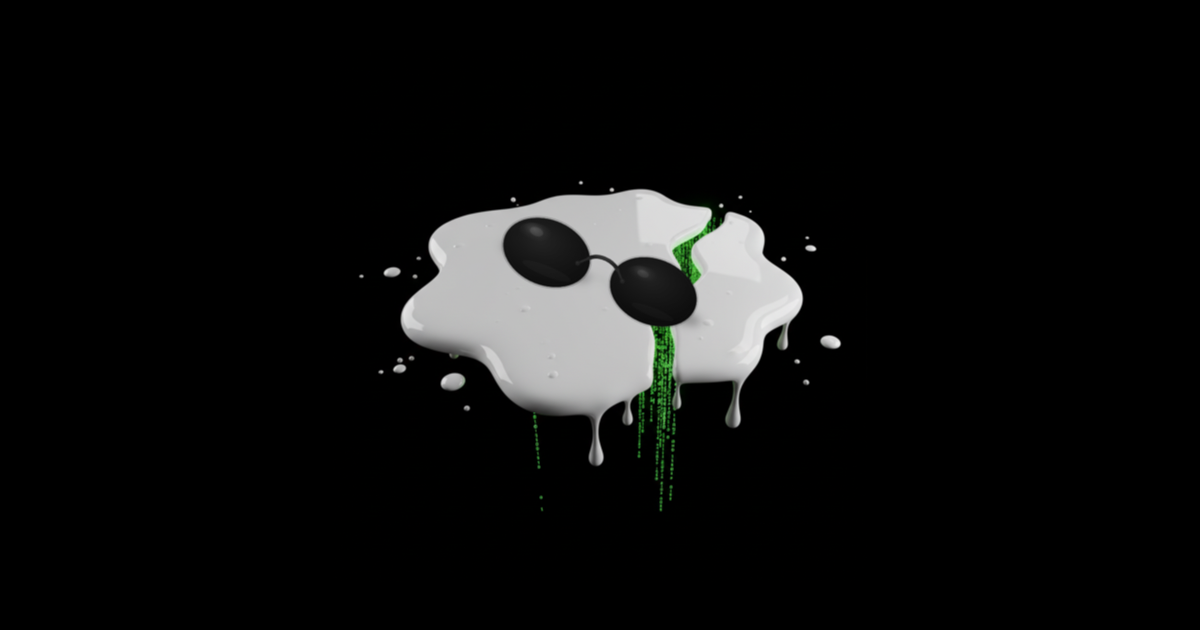
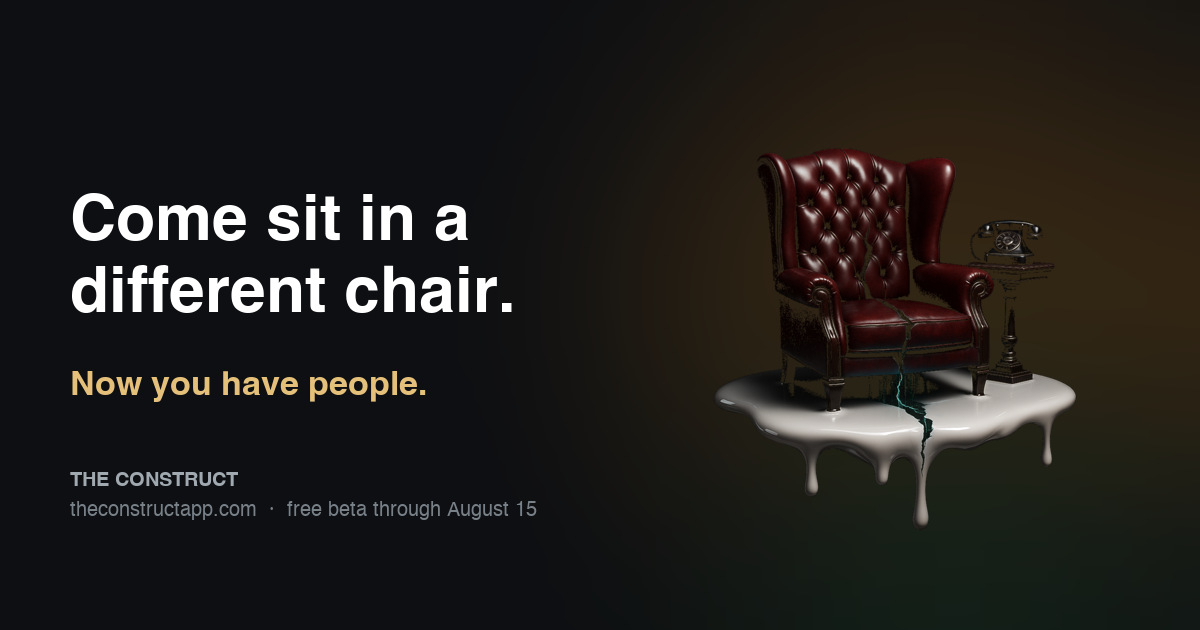
assets: the cast, "Well, meet your people.", new share card
- Six original character portraits (Morpheus, The Architect, Tank, Trinity,
  The Concierge, The Producer) in one painterly series matching the hero's
  world: dark room, amber pool, green seam accents, burgundy wardrobe.
  ORIGINAL designs, deliberately zero Matrix trade dress (no sunglasses, no
  trench coats, no actor likeness); the names are the only inheritance.
  Sources at the-construct-ops/brand/cast/ (1254px masters).
- New section "Well, meet your people." directly answers the hero's promise;
  role lines reuse the app's own agent descriptions verbatim where they
  exist (tank/concierge/producer are straight from the agents table).
- og-image rebuilt around the logomark + "Come sit in a different chair." /
  "Now you have people." so shares finally match the site.
- WebP + JPEG per portrait, ~46 KB avg.

diff --git a/index.html b/index.html
@@ -229,6 +229,99 @@
     </section>
 
     <!-- ============================================================ -->
+    <!-- 2a. MEET YOUR PEOPLE                                          -->
+    <!-- ============================================================ -->
+    <section class="hero-dark py-20 md:py-24 border-t border-white/5">
+      <div class="max-w-6xl mx-auto px-4 sm:px-6">
+        <div class="fade-in text-center mb-12">
+          <h2 class="text-3xl md:text-4xl font-bold text-white tracking-tight mb-4">Well, meet your people.</h2>
+          <p class="text-[#a8b0b9] text-lg max-w-2xl mx-auto">Named, not numbered. Each one has a job, a voice, and a lane, and they work at the same time.</p>
+        </div>
+        <div class="grid sm:grid-cols-2 lg:grid-cols-3 gap-6">
+          <div class="fade-in bg-[#14161a] border border-white/10 rounded-xl overflow-hidden">
+            <picture>
+              <source srcset="./cast/morpheus-640.webp" type="image/webp">
+              <img src="./cast/morpheus-640.jpg" alt="Illustrated portrait of Morpheus, your thought partner in The Construct" width="640" height="640" decoding="async" class="w-full h-auto">
+            </picture>
+            <div class="p-4">
+              <div class="flex items-baseline justify-between mb-1">
+                <h3 class="text-white text-base font-bold">Morpheus</h3>
+                <span class="text-[#e5c07a] text-[11px] font-semibold uppercase tracking-wider">Your thought partner</span>
+              </div>
+              <p class="text-[#a8b0b9] text-sm leading-relaxed">The one you talk to first. He thinks with you, then hands the work to the right people.</p>
+            </div>
+          </div>
+          <div class="fade-in bg-[#14161a] border border-white/10 rounded-xl overflow-hidden">
+            <picture>
+              <source srcset="./cast/architect-640.webp" type="image/webp">
+              <img src="./cast/architect-640.jpg" alt="Illustrated portrait of The Architect, your planner in The Construct" width="640" height="640" decoding="async" class="w-full h-auto">
+            </picture>
+            <div class="p-4">
+              <div class="flex items-baseline justify-between mb-1">
+                <h3 class="text-white text-base font-bold">The Architect</h3>
+                <span class="text-[#e5c07a] text-[11px] font-semibold uppercase tracking-wider">Your planner</span>
+              </div>
+              <p class="text-[#a8b0b9] text-sm leading-relaxed">Give him a brief and he returns a plan: who does what, in what order, for your approval.</p>
+            </div>
+          </div>
+          <div class="fade-in bg-[#14161a] border border-white/10 rounded-xl overflow-hidden">
+            <picture>
+              <source srcset="./cast/tank-640.webp" type="image/webp">
+              <img src="./cast/tank-640.jpg" alt="Illustrated portrait of Tank, your builder in The Construct" width="640" height="640" decoding="async" class="w-full h-auto">
+            </picture>
+            <div class="p-4">
+              <div class="flex items-baseline justify-between mb-1">
+                <h3 class="text-white text-base font-bold">Tank</h3>
+                <span class="text-[#e5c07a] text-[11px] font-semibold uppercase tracking-wider">Your builder</span>
+              </div>
+              <p class="text-[#a8b0b9] text-sm leading-relaxed">Writes code, ships features, fixes bugs. Rolled sleeves, real output.</p>
+            </div>
+          </div>
+          <div class="fade-in bg-[#14161a] border border-white/10 rounded-xl overflow-hidden">
+            <picture>
+              <source srcset="./cast/trinity-640.webp" type="image/webp">
+              <img src="./cast/trinity-640.jpg" alt="Illustrated portrait of Trinity, your chief of staff in The Construct" width="640" height="640" decoding="async" class="w-full h-auto">
+            </picture>
+            <div class="p-4">
+              <div class="flex items-baseline justify-between mb-1">
+                <h3 class="text-white text-base font-bold">Trinity</h3>
+                <span class="text-[#e5c07a] text-[11px] font-semibold uppercase tracking-wider">Your chief of staff</span>
+              </div>
+              <p class="text-[#a8b0b9] text-sm leading-relaxed">Holds the room. Tracks what's decided, what's blocked, and what's quietly drifting.</p>
+            </div>
+          </div>
+          <div class="fade-in bg-[#14161a] border border-white/10 rounded-xl overflow-hidden">
+            <picture>
+              <source srcset="./cast/concierge-640.webp" type="image/webp">
+              <img src="./cast/concierge-640.jpg" alt="Illustrated portrait of The Concierge, your front of house in The Construct" width="640" height="640" decoding="async" class="w-full h-auto">
+            </picture>
+            <div class="p-4">
+              <div class="flex items-baseline justify-between mb-1">
+                <h3 class="text-white text-base font-bold">The Concierge</h3>
+                <span class="text-[#e5c07a] text-[11px] font-semibold uppercase tracking-wider">Your front of house</span>
+              </div>
+              <p class="text-[#a8b0b9] text-sm leading-relaxed">Customer-facing voice. Empathy, lookups, escalation, always glad you're here.</p>
+            </div>
+          </div>
+          <div class="fade-in bg-[#14161a] border border-white/10 rounded-xl overflow-hidden">
+            <picture>
+              <source srcset="./cast/producer-640.webp" type="image/webp">
+              <img src="./cast/producer-640.jpg" alt="Illustrated portrait of The Producer, your deadline keeper in The Construct" width="640" height="640" decoding="async" class="w-full h-auto">
+            </picture>
+            <div class="p-4">
+              <div class="flex items-baseline justify-between mb-1">
+                <h3 class="text-white text-base font-bold">The Producer</h3>
+                <span class="text-[#e5c07a] text-[11px] font-semibold uppercase tracking-wider">Your deadline keeper</span>
+              </div>
+              <p class="text-[#a8b0b9] text-sm leading-relaxed">Tracks deliverables, deadlines, blockers. Holds the whole picture so nothing slips.</p>
+            </div>
+          </div>
+        </div>
+        <p class="fade-in text-center text-[#8d949c] text-sm mt-10">Rename them, retune them, or add your own. They're your people.</p>
+      </div>
+    </section>
+
+    <!-- ============================================================ -->
     <!-- 2b. WHAT YOU'D ACTUALLY USE IT FOR                           -->
     <!-- ============================================================ -->
     <section class="py-20 md:py-28">
